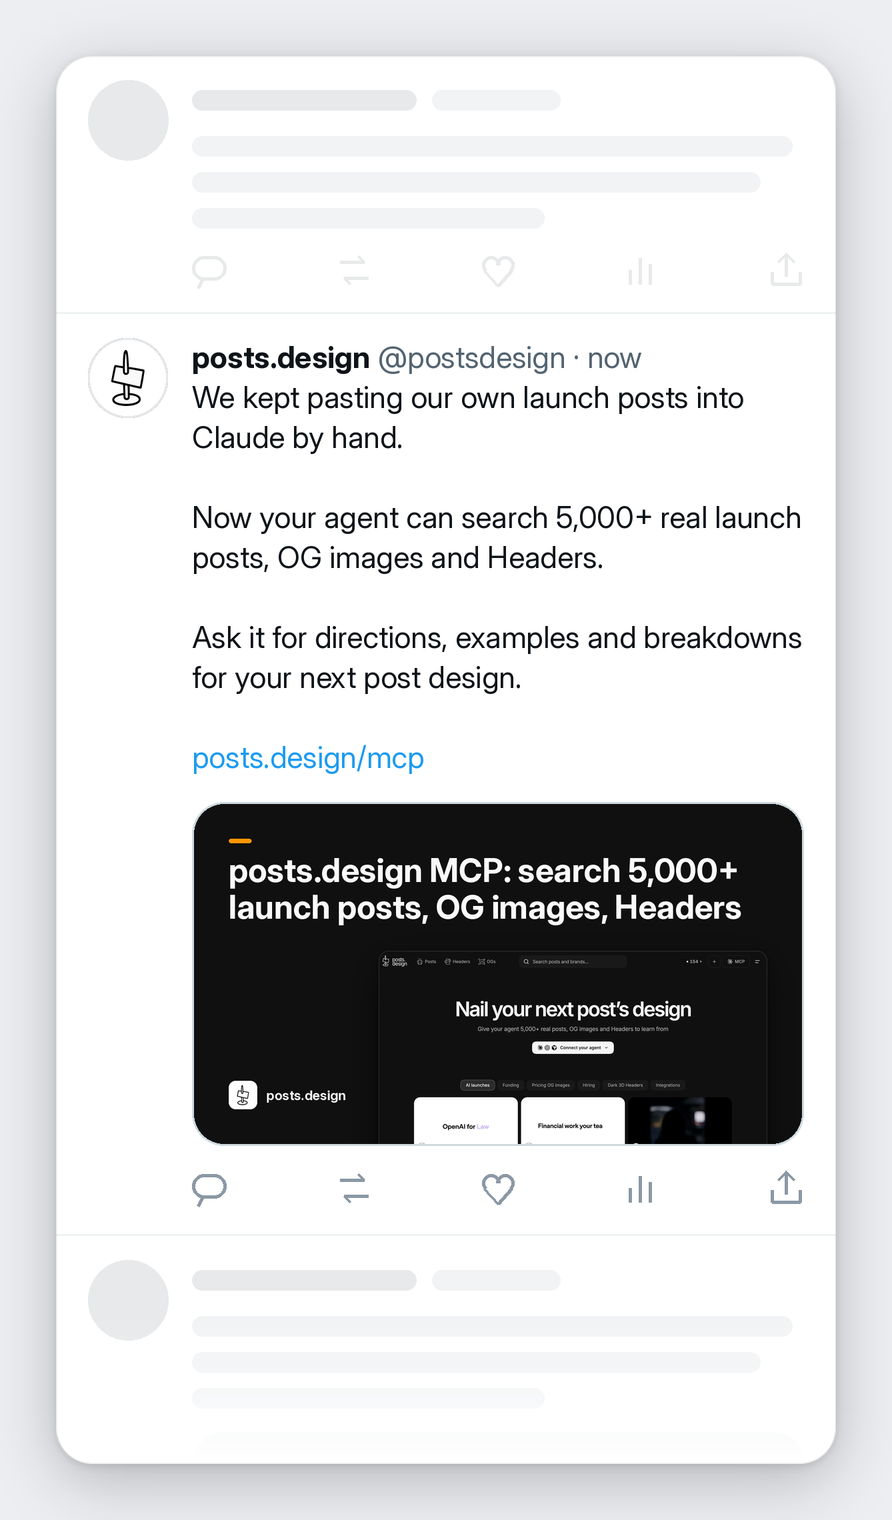
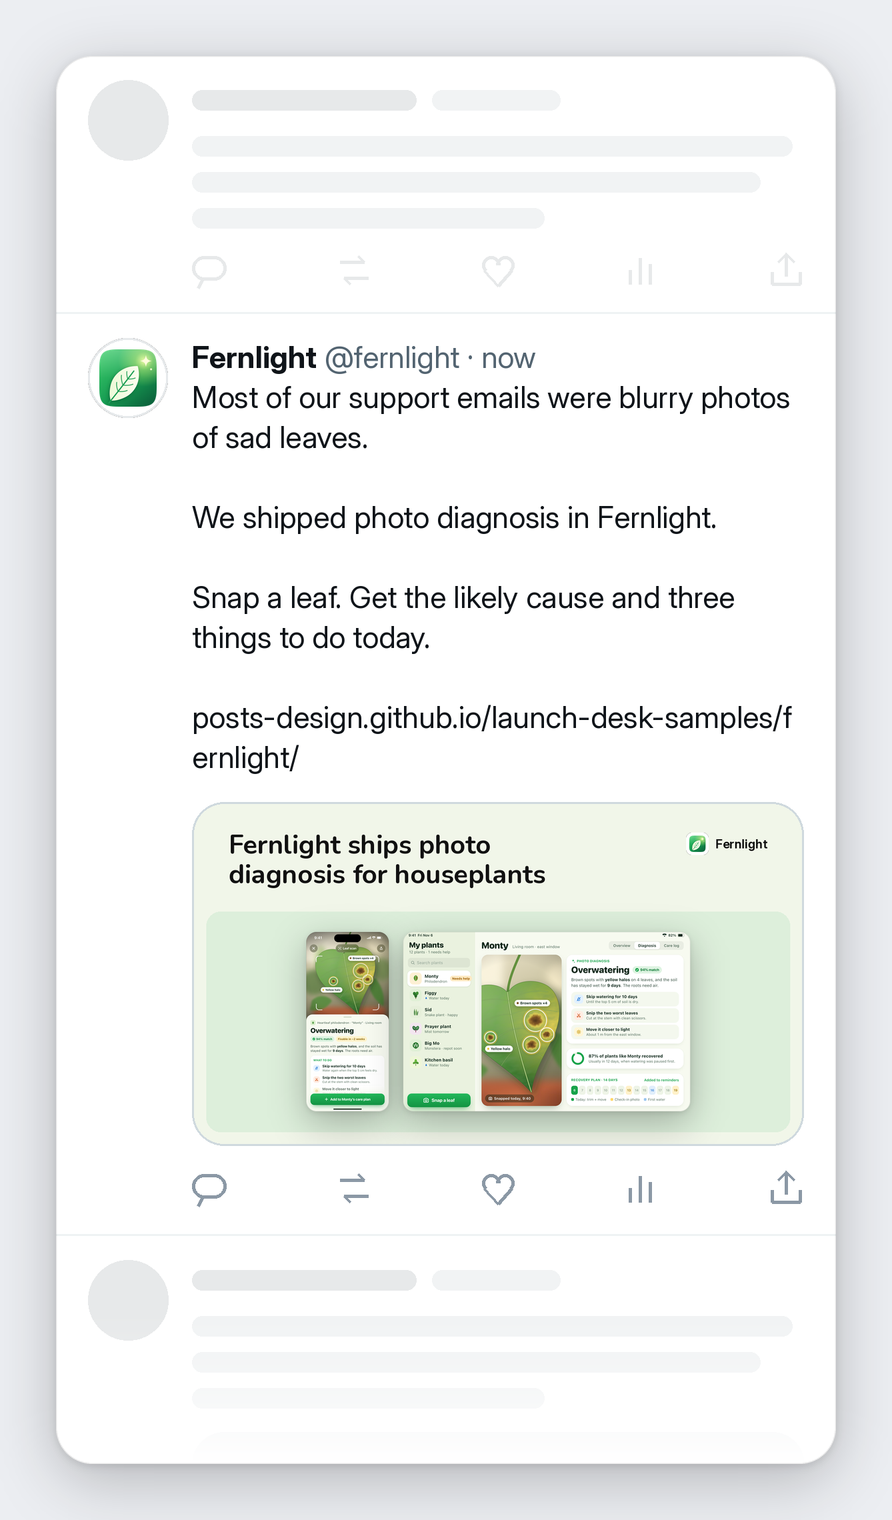
Feed preview from the Fernlight sample run; no test data in docs (R60); 982 tests
The catalog feed preview showed the K1 post with an unconfirmed founder
line under @postsdesign. It now shows the Fernlight sample post with its
split card. The hero card and banner stay posts.design and show only its
card line. The README example of the closed loop no longer uses the test
number of sign-ups.

Changed region(s): [[0.2119, 0.2164, 0.9081, 0.773], [0.6659, 0.4638, 0.8778, 0.4947], [0.0908, 0.2164, 0.1816, 0.2783]]

diff --git a/tools/render_assets.py b/tools/render_assets.py
@@ -13,9 +13,9 @@ INPUT_DIR holds files gathered once by hand (not committed):
   fernlight-logo.png      the logo fetch_brand() saved for the Fernlight sample site
   cli.ansi                (optional) `tmux capture-pane -p -e` of a live `hermes chat` run of /launch
 OUT_DIR defaults to the repo's assets/. Each card carries the post and card line of a live /launch
-run (hook 1, the founder's words): the hero card and the feed preview are K1 (posts.design MCP,
+run (hook 1, the founder's words): the hero card and the banner are K1 (posts.design MCP, showing its card line,
 2026-11-07), the statement card is K2 (Brookhour, 2026-11-08) and the split card is K3 (Fernlight,
-2026-11-08). Brookhour and Fernlight are sample apps made for this demo, on public sample sites. The
+2026-11-08); the feed preview is the Fernlight post with its split card. Brookhour and Fernlight are sample apps made for this demo, on public sample sites. The
 brand values are what fetch_brand() read from each site on 2026-11-08. Every post passes every check.
 The CLI image (cli-flow.png) is a capture of a live /launch run for Fernlight on 2026-11-09, at the
 hook question with the founder words as hook 1.
@@ -576,7 +576,10 @@ def main(argv: list[str]) -> int:
             ("card-statement.png", brookhour, [], BROOKHOUR_CARD),
             ("card-split.png", fernlight, [inp / "fernlight-phone.png", inp / "fernlight-desktop.png"], FERNLIGHT_CARD)):
         render_card(kit, used, card, X, shots / name, layout=choose_layout(used, card))
-    preview = render_feed_preview(posts, POSTS_POST, shots / "card-x.png", shots / "feed-preview.png", scale=2)
+    # The feed preview is the Fernlight post with its split card: a sample app, so no founder line
+    # in it stands for a real person (R60).
+    preview = render_feed_preview(fernlight, FERNLIGHT_POST, shots / "card-split.png", shots / "feed-preview.png",
+                                  scale=2)
     frame_preview(preview)
     if with_banner:
         card = render_card(posts, [inp / "posts-shot.png"], POSTS_CARD, X, out / "_banner-card.png")

diff --git a/catalog/PR.md b/catalog/PR.md
@@ -40,9 +40,9 @@ It also ships an optional Hermes Desktop page (`desktop/plugin.js`; the Desktop 
 - `hermes plugins validate . --install-deps` (Hermes 0.22.7): `Validation passed.` All checks green, security scan `safe`, declared tools match registrations. Two informational lines: `Isolation — in-process only: launch_desk/host.py ctx.post_message()`, and that the dashboard backend API is served through the plugin host (buffered responses).
 - `hermes plugins doctor . --ci`: `OK: runtime discovery, manifest parsing, import, and registration passed`, `registrations: 3 tool(s), 0 hook(s)`.
 - `scripts/validate_plugin_catalog.py plugin-catalog/launch-desk.yaml`: `OK: 1 file(s) valid`.
-- 968 pytest tests (`pytest --collect-only -q`: 968 tests collected; all pass; 14 of them need FastAPI and Hermes' React from the Hermes venv) on Python 3.14 (stdlib and Pillow only). They cover the brand read (dark sites, the accent a site names, the headline face, and hostile or malformed CSS read within its time budget), the scroll test (including the template opener and private links), the founder words as hook 1 and the hook filter, the visible checklist, ranking and shape notes, drafting with junk model output, the three card layouts and their size limits, alt text per layout, the two-step flow, unattended runs, the reply on local clients and chat apps, and the check-ins (no job without a Yes, the job specs, the composed check-in message against the copy checks, result recording, and recorded results shaping the next launch).
+- 982 pytest tests (`pytest --collect-only -q`: 982 tests collected; all pass; 14 of them need FastAPI and Hermes' React from the Hermes venv) on Python 3.14 (stdlib and Pillow only). They cover the brand read (dark sites, the accent a site names, the headline face, and hostile or malformed CSS read within its time budget), the scroll test (including the template opener and private links), the founder words as hook 1 and the hook filter, the visible checklist, ranking and shape notes, drafting with junk model output, the three card layouts and their size limits, alt text per layout, the two-step flow, unattended runs, the reply on local clients and chat apps, and the check-ins (no job without a Yes, the job specs, the composed check-in message against the copy checks, result recording, and recorded results shaping the next launch).
 - Live runs on a separate Hermes 0.22.7 with deepseek-v4.1-flash and the posts.design MCP server: the interactive CLI (`hermes chat`, both steps, approve and discard), the check-ins (created on Yes, run now, message posted as composed, results recorded), and Telegram through the gateway (buttons for every question, the card and preview sent as images, and a run without a posts.design account on the sample pack). On approve, chat apps get a Markdown link that opens X with the post filled in. This is verified on Telegram, where it shows as a tap-through link; other chat apps show it as Markdown. Terminal and desktop clients get the plain URL.
-- About the images in the entry: the three cards, the feed preview and the banner are rendered by the plugin's own code (`tools/render_assets.py`) with the posts and card lines of live runs: the hero card is posts.design MCP, the statement card Brookhour and the split card Fernlight (sample apps made for this demo, on public sample sites). The CLI image is redrawn from a real terminal capture of a live run.
+- About the images in the entry: the three cards, the feed preview and the banner are rendered by the plugin's own code (`tools/render_assets.py`) with the posts and card lines of live runs: the hero card and the banner are posts.design MCP (its card line), the statement card Brookhour, and the split card and the feed preview Fernlight (sample apps made for this demo, on public sample sites). The CLI image is redrawn from a real terminal capture of a live run.
 - Under cron or any unattended run, `/launch` answers with one sentence and stops; a question nobody answers ends the run cleanly.
 
 ## Disclosure

diff --git a/README.md b/README.md
@@ -52,7 +52,7 @@ To make drafts sound like you, send `/launch voice: <a past post of yours>`. It 
 
 After you approve, `/launch` asks whether to check in tomorrow and in 3 days. Say Yes and Hermes' own scheduler runs two check-ins that post to the same chat. Each posts one message composed in code from your pack and run through the em-dash, emoji, placeholder and stock-phrase checks: it asks how many sign-ups each channel brought and gives up to two next-post ideas (a reply with your detail, a hook you did not use, or the shape of a reference you did not see). Reply with your numbers and the agent records them in the pack with `launch_desk_record_results`. The reply names each job. To cancel one in the terminal chat, send `/cron remove <id>`; in a chat app, ask the agent to remove check-in `<id>`, or run `hermes cron remove <id>` where Hermes runs. There is also an automation blueprint, `launch-desk:follow-up` ("Launch Desk check-in" under New cron job in Hermes Desktop, or `/blueprint`), for one more check-in a day later. Leave the pack as "Your latest pack" to check in on your newest pack when it runs, or pick one of your recent packs. The list of recent packs is read when the plugin loads, and their times are UTC. A check-in made from the blueprint runs with Hermes' default toolsets (a blueprint cannot narrow them), unlike the two `/launch` check-ins, which run with the plugin's own tools and no MCP server.
 
-The next `/launch` reads those numbers back. Of the packs for the same site, the one with the most sign-ups (the most recent one on a tie) gives one line, such as: Your last launch brought 12 sign-ups on X with "Pet pages can wear your colours now." Its post is listed first among the references as your own launch, with its sign-ups and pack name, and the draft borrows its shape. It is yours, so the check for five copied words leaves it out, and your detail for this launch never counts as copied either. A later answer for a channel replaces the earlier one, since each check-in asks for the count so far. Packs without results, and packs for another site, change nothing.
+The next `/launch` reads those numbers back. Of the packs for the same site, the one with the most sign-ups (the most recent one on a tie) gives one line, such as: Your last launch brought N sign-ups on X with "<the first line of that post>". Its post is listed first among the references as your own launch, with its sign-ups and pack name, and the draft borrows its shape. It is yours, so the check for five copied words leaves it out, and your detail for this launch never counts as copied either. A later answer for a channel replaces the earlier one, since each check-in asks for the count so far. Packs without results, and packs for another site, change nothing.
 
 To put your product on the card, send a screenshot and the agent attaches it with `launch_desk_attach_screenshot`. Send two and the card shows them side by side; with none, the card sets its headline large. The plugin also ships a skill, `launch-desk:launch-desk`, that teaches the agent the launch workflow, so it steers you well even when you do not type the command.
 
